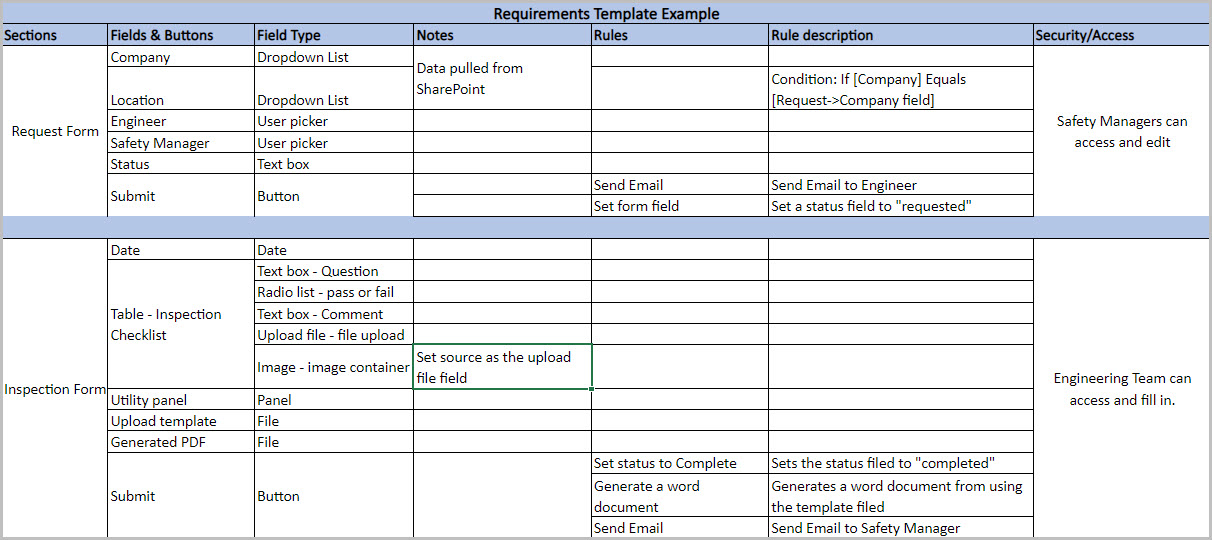
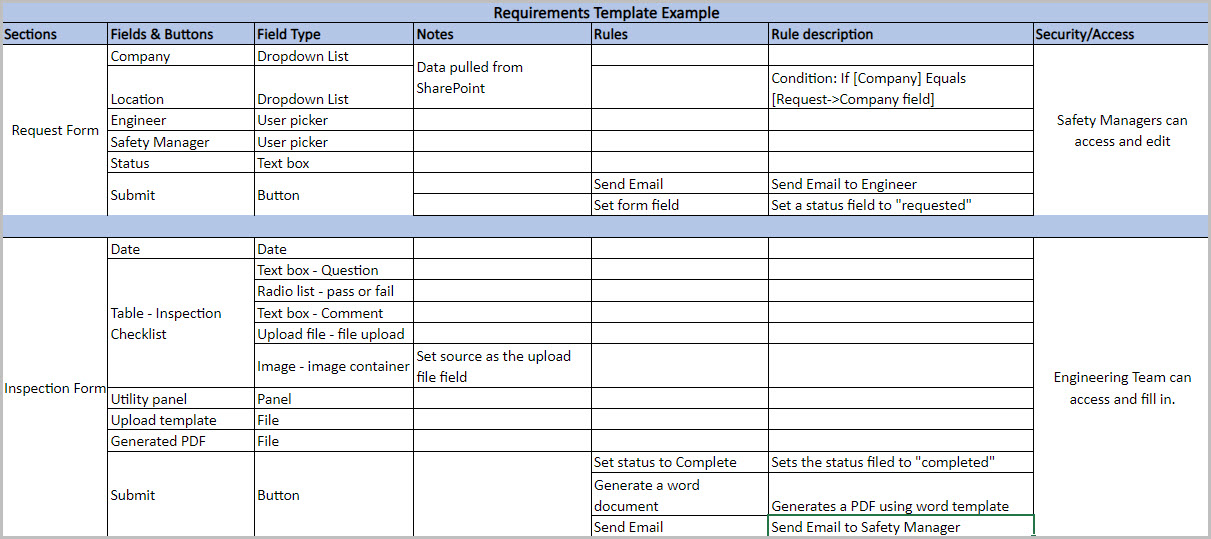
inspection page completed

diff --git a/content/docs/examples/inspection/inspect-form.md b/content/docs/examples/inspection/inspect-form.md
@@ -352,14 +352,25 @@ The utility panel will hold our word document template and the generated PDF fil
 The Upload template is a **File** field. This field will be used to upload a word document which will be the template for creating the PDF file.
 
 1. To add a **File** field into the **Panel**, first select the **Panel** field so that the edit or pen icon ![Pen icon](/images/penicon.png) appears.
+
+   ![Panel select](/images/examples-panel-select.jpg)
+
 2. Click on **Controls** in the left-hand pane to expand the Controls menu.
+
 3. Select **Input** to view the range of Input controls.
+
 4. Click on **File**.
+
 5. Change the **Title** to **Upload template**.
+
 6. Chane the **Name (unique)** to a unique identifier.
+
 7. Click on **Destination** ![Destination button](/images/destination-file.jpg) to open datasource dialog box.
+
 8. Select your desired location to save the file.
+
 9. Click on **OK** on the **Datasource** dialog box.
+
 10. Click on **OK** on the **Edit field** dialog box.
 
 #### Adding a File field - Generated PDF
@@ -367,9 +378,149 @@ The Upload template is a **File** field. This field will be used to upload a wor
 The Generated PDF file is a **File** field which is used to hold our PDF from the above template.
 
 1. To add a **File** field into the **Panel** follow steps 1 through 4 in the above **Adding a file - Upload template** section.
+
+   ![Panel select with upload template](/images/examples-panel-select-upload.jpg)
+
 2. Change the **Title** to **Generated PDF**.
+
 3. Chane the **Name (unique)** to a unique identifier.
+
 4. Click on **Destination** ![Destination button](/images/destination-file.jpg) to open datasource dialog box.
+
 5. Select your desired location to save the file.
+
 6. Click on **OK** on the **Datasource** dialog box.
+
 7. Click on **OK** on the **Edit field** dialog box.
+
+
+
+### Creating a Word template
+
+You can **generate reports** within Kianda processes and **populate** the reports with **data captured** within each process instance. We will be generating a PDF file for inspection reports where a report template can be used to show the information the engineer input to a **Kianda form** during his inspection. Each time an inspection is performed, a report is generated based on a Word template and the report shows the relevant information that was captured during that particular inspection. 
+
+To learn more on how to create the **Word template** using **Kianda Add-in** in Word go to [Kianda Add-in](https://vimeo.com/696535028/ef00136ecd) to watch a short video going through the process step by step. Alternatively you can also go through the steps of learning the process by going to [Word document add-in](/docs/platform/document-generation/word-document-add-in/).
+
+
+
+### Adding rules to Submit button
+
+To take a look back at our [requirements](/docs/examples/inspection/#planning-form-requirements) for our **Inspection form**, we need 3 rules for the **Submit** button.
+
+- **Set status to Complete** - Sets the status field that we created to **“Complete”**.
+- **Generate a PDF using word template** - Generates a PDF file using a word template which we created using the **Kianda Add-in**.
+- **Send email to Safety Manager** - Sends an email to the selected user from the **Safety Manager** field from our **Request form**.
+
+#### Creating a Set form field rule - Set status to Completed
+
+With this rule we will be setting our **Status** field to **“Completed”**. We will be using the **Set form field** rule from the **Data** set of rules.
+
+<img src="/videos/gifs/examples/inspection/status-completed.gif"/>
+
+<br><br>
+
+1. Select the **Submit** button by clicking on it so that the edit or pen icon ![Pen icon](/images/penicon.png) appears. 
+
+2. In the **Left-hand** pane click on **Add a rule**.
+
+3. Click on **Data**.
+
+4. Select **Set form field**.
+
+5. In the **Edit rule** dialog box, change the **Title** to "**Set status to Completed**"
+
+6. Click on **Form field to set** dropdown.
+
+7. Under the **Request Form** select **Status** field.
+
+8. In the **Value or expression** box, type **Completed**. ![Set form field dialog box](/images/examples-set-form-field.jpg)
+
+9. Click on **OK** button to save rule.
+
+10. With the **Submit** button selected, in the **Right-hand** pane click on the **Rules**.
+
+11. The **Set status to Completed** is under the **Close** rule. Drag and drop the **Set status to Completed**  rule to the top of the list.
+
+#### Creating a Generate word document rule - Generate PDF using word template
+
+1. Select the **Submit** button by clicking on it so that the edit or pen icon ![Pen icon](/images/penicon.png) appears. 
+
+2. In the **Left-hand** pane click on **Add a rule**.
+
+3. Click on **File Management**.
+
+4. Select **Generate word document**.
+
+5. In the **Edit rule** dialog box, change the **Title** to "**Generate PDF using word template**"
+
+6. In the **Select document template** option, select **Upload template** field.
+
+7. In the **Select document destination** option, select **Generated PDF** field.
+
+8. In the Upload template file, brows for the created word template file.
+
+   ![Send email to safety manager](/images/examples-generate-pdf.jpg)
+
+9. Click on **OK** in the **Edit rule** dialog box.
+
+10. Move the **Generate PDF using word template** rule under the **Set status to Completed** rule.
+
+    
+
+    
+
+#### Creating a Send email rule - Send email to Safety Manager
+
+This rule will be used to send an email to the selected **Safety Manager**. We will be using the **Send email**  rule from the **Communications** set of rules. In this rule we will add expressions, to learn more go to [Expressions](/docs/getting-started/create-first-process/plan-your-process/expressions/).
+
+1. Select the **Submit** button by clicking on it so that the edit or pen icon ![Pen icon](/images/penicon.png) appears.
+
+2. In the **Left-hand** pane click on the **Add a rule** tab.
+
+3. Click on **Communications**.
+
+4. Select **Send email**.
+
+5. In the **Edit rule** box, change the **Title to** "**Send email to Safety Manager**"
+
+6. Click on the person icon ![Person icon](/../static/images/person.png) on the **To:** part of the email.
+
+7. In the **Select email users** box select the **User(s) defined in a user field** radio button.
+
+8. In the **Select a user field** select **Safety Manager** from the **Request form**.
+
+   ![Send email to safety manager](/images/examples-send-email-pdf.jpg)
+
+9. To attach the created PDF file to the email, click on **File** icon in the **Body** of the email.
+
+10. In the **Attach file to email** dialog box, drill down and choose **Generated PDF** from the **Inspection Form**.
+
+    ![Send email to safety manager](/images/examples-attach-pdf.jpg)
+
+11. Change the **body** of the email to:
+
+    ```
+    Hi,
+    
+    See report attached
+    
+    Regards,
+    
+    The Safety Team
+    ```
+
+    
+
+12. Click on **OK** on the **Edit rule** dialog box.
+
+13. Move the **Send email to Safety Manager** rule under the **Generate PDF using word template** rule.
+
+14. To save your changes to the form, click on the **Save** button ![Save button](/images/saveprocess.png)
+
+## Request Form Summary 
+
+To summarise our **Inspection From**, we created all fields, buttons and rules that we stated in our [requirements](/docs/examples/inspection/#planning-form-requirements). Our Engineer can fill out our **Inspection Checklist** and submit the form which automatically sends an email to an **Safety Manager** with the generated PDF file of the report. We are also updating our **Status** field to **Completed**.
+
+### What's next ![Idea icon](/images/18.png) 
+
+To follow a step by step guide on creating our **Inspection From**, go to [Creating Dashboard](/docs/examples/inspection/dashboard/).

diff --git a/content/docs/examples/inspection/dashboard.md b/content/docs/examples/inspection/dashboard.md
@@ -6,11 +6,17 @@ typora-root-url: ..\..\..\..\static
 
 
 
-{{% pageinfo color="primary" %}}
-Page under construction.
-{{% /pageinfo %}}
+Kianda **dashboards** deliver a convenient way to provide insights into how your business processes are performing. Kianda dashboards offer easy reporting, permissions management, quick build, condition-based filtering and many more features.
 
+From lists to tiles, filter and charts, dashboards allow you to build full digital experiences to monitor your real-time processes in a few minutes.
 
+## Creating a Dashboard
+
+1. In the left-hand side menu click on Home
+
+   ![Home](/images/left-menu-home.jpg)
+
+2. On the top right-hand side menu click on the plus![Plus](/images/top-right-menu-plus.jpg)
 
 
 
